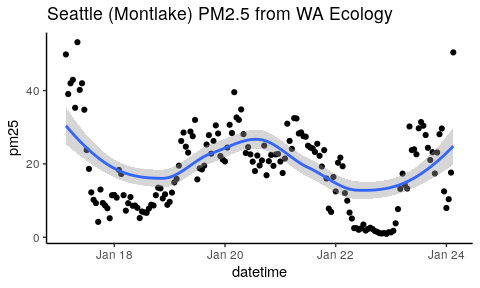
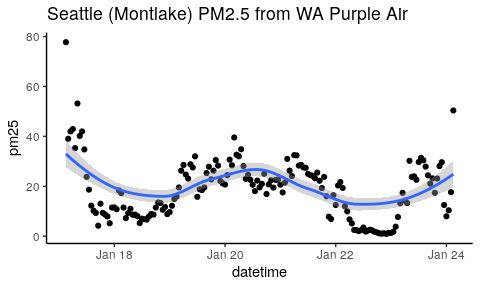
Fixed typos and added comments.

diff --git a/demos/data_import/epa_aqi/getAQI.md b/demos/data_import/epa_aqi/getAQI.md
@@ -416,8 +416,7 @@ ggplot(plot_df, aes(datetime, pm25)) + geom_point() +  ggtitle(plot_title) +
 ## Purple Air sensor data
 
 Similar to WA Ecology's website, Purple Air also has a nice map interface where 
-you find a sensor, click on it, and see the current data. Here is data from 
-the Montlake station.
+you find a sensor and click on it to see the current data. Here data from "Montlake":
 
 ![](img/purple_air_montlake.png)
 
@@ -459,37 +458,47 @@ We can query the Montlake station with this information:
 
 
 ```r
+# Get dataframe of information we need to query Thingspeak's API
 url <- "https://www.purpleair.com/json?show=84023"
 df <- jsonlite::fromJSON("https://www.purpleair.com/json?show=84023")$results
 df <- df[df$Label == "Montlake", 
   c('ID', 'Label', 'THINGSPEAK_PRIMARY_ID', 'THINGSPEAK_PRIMARY_ID_READ_KEY')]
+
+# Extract values we need from dataframe
 ts_id <- df$THINGSPEAK_PRIMARY_ID
 ts_api_key <- df$THINGSPEAK_PRIMARY_ID_READ_KEY
 ```
 
 ## Get JSON data from Thingspeak
 
-Now we cat get the past week of hourly data for the Montlake sensor.
+Now we can get the past week of hourly data for the Montlake sensor.
 
 
 ```r
+# Make web request
 url <- paste('https://thingspeak.com/channels', ts_id, 'feeds.json', sep = "/")
 query_list <- list(api_key = ts_api_key, days = "7", timescale = "60")
 response <- GET(url, query = query_list)
+
+# Extract data from JSON into a dataframe
 json_txt <-content(response, "text")
+df <- as_tibble(fromJSON(json_txt)[['feeds']])
+
+# Get names for "field1" through "field8" from metadata list
 meta_lst <- fromJSON(json_txt, simplifyVector = FALSE)[[1]] 
 field_names <- meta_lst[grepl('^field\\d+$', names(meta_lst))]
-df <- as_tibble(fromJSON(json_txt)[['feeds']])
 names(df)[names(df) %in% names(field_names)] <- unlist(field_names)
+
+# Prepare data for plotting
 plot_df <- df %>% select(datetime = "created_at", pm25 = "PM2.5 (ATM)") %>%
   mutate(datetime = as_datetime(datetime), pm25 = as.numeric(pm25))
 ```
 
-## Plot Purle Air PM2.5 data for Seattle
+## Plot Purple Air PM2.5 data for Seattle
 
 
 ```r
-plot_title <- "Seattle (Montlake) PM2.5 from WA Ecology"
+plot_title <- "Seattle (Montlake) PM2.5 from WA Purple Air"
 ggplot(plot_df, aes(datetime, pm25)) + geom_point() +  ggtitle(plot_title) + 
   geom_smooth(formula = "y ~ x", method = "loess") + theme_classic()
 ```
